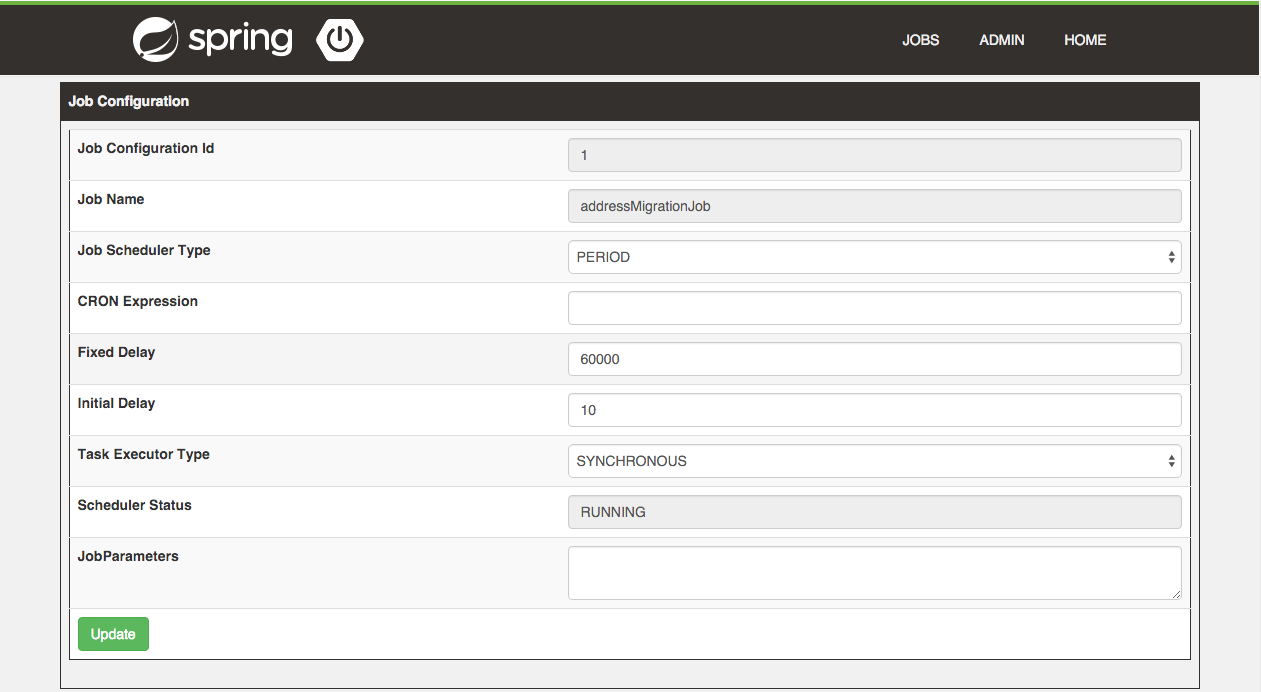
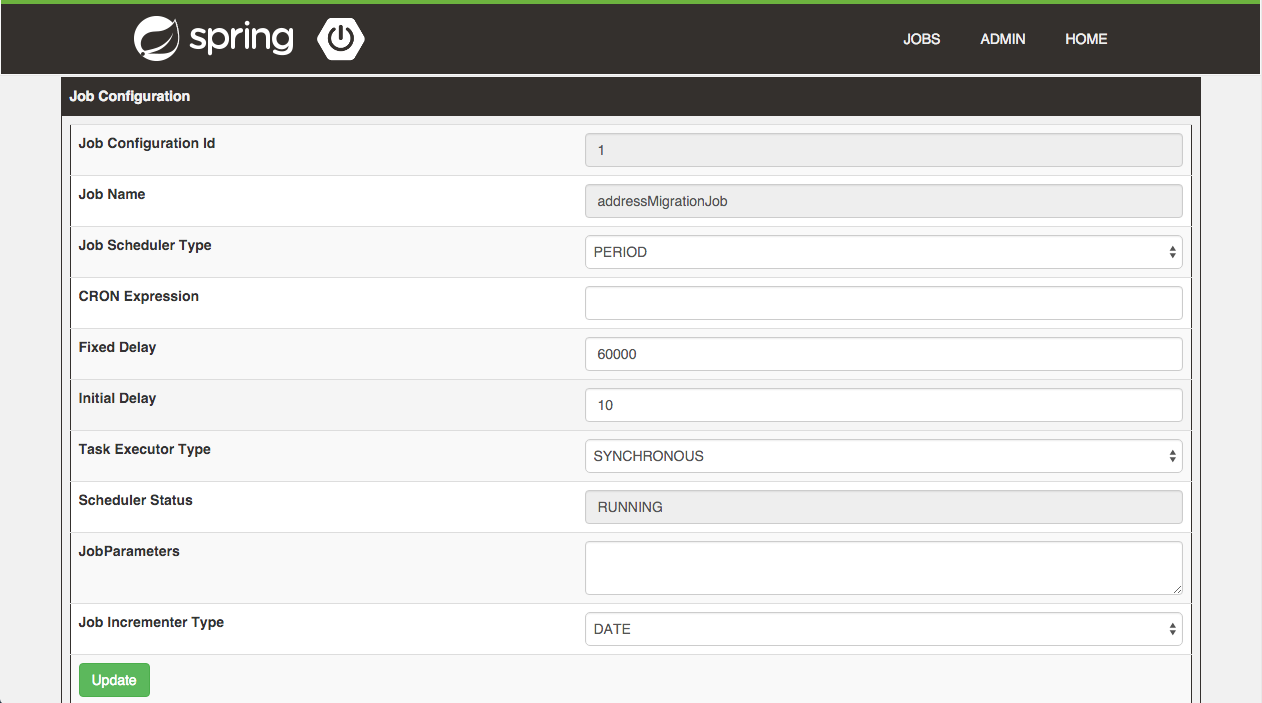
added restart / stop feature for job executions

diff --git a/spring-batch-lightmin-ui/src/main/resources/templates/jobExecutions.html b/spring-batch-lightmin-ui/src/main/resources/templates/jobExecutions.html
@@ -10,7 +10,7 @@
             <table class="table table-hover boxed">
                 <thead>
                 <tr>
-                    <th colspan="9">
+                    <th colspan="10">
                         <a href="#"
                            th:href="@{job(jobname=${jobName})}"
                            th:text="${jobName}"> </a>
@@ -28,12 +28,13 @@
                     <th>End Time</th>
                     <th>Status</th>
                     <th>Exit Code</th>
+                    <th>Action</th>
                 </tr>
                 <tr th:each="jobExecution : ${jobExecutions}">
                     <td th:text="${jobExecution.jobInstanceId}"/>
                     <td><a href="#"
                            th:href="@{execution(jobExecutionId=${jobExecution.jobExecution.id})}"
-                           th:text="${jobExecution.jobExecution.jobId}"></a></td>
+                           th:text="${jobExecution.jobExecution.id}"></a></td>
                     <td th:text="${jobExecution.jobName}"/>
                     <td th:text="${jobExecution.jobExecution.createTime}"/>
                     <td th:text="${jobExecution.jobExecution.startTime}"/>
@@ -41,6 +42,28 @@
                     <td th:text="${jobExecution.jobExecution.endTime}"/>
                     <td th:text="${jobExecution.jobExecution.status}"/>
                     <td th:text="${jobExecution.jobExecution.exitStatus.exitCode}"/>
+                    <td>
+                        <div class="col-xs-11 clearfix">
+                            <div class="pull-right">
+                                <form method="post" class="form-inline pull-right"
+                                      th:if="${jobExecution.jobExecution.status.name() == 'COMPLETED'
+                                                      || jobExecution.jobExecution.status.name() == 'FAILED' || jobExecution.jobExecution.status.name() == 'ABANDONED'}"
+                                      th:action="@{executionRestart(jobExecutionId=${jobExecution.jobExecution.id},jobInstanceId=${jobExecution.jobInstanceId})}">
+                                    <div class="form-group">
+                                        <button type="submit" class="btn btn-success btn-sm">Restart</button>
+                                    </div>
+                                </form>
+                                <form method="post" class="form-inline pull-right"
+                                      th:if="${jobExecution.jobExecution.status.name() == 'STARTING'
+                                                      || jobExecution.jobExecution.status.name() == 'STARTED' || jobExecution.jobExecution.status.name() == 'UNKNOWN'}"
+                                      th:action="@{executionStop(jobExecutionId=${jobExecution.jobExecution.id},jobInstanceId=${jobExecution.jobInstanceId})}">
+                                    <div class="form-group">
+                                        <button type="submit" class="btn btn-danger btn-sm">Stop</button>
+                                    </div>
+                                </form>
+                            </div>
+                        </div>
+                    </td>
                 </tr>
                 </tbody>
             </table>

diff --git a/spring-batch-lightmin-ui/src/main/resources/templates/jobConfigurationAdd.html b/spring-batch-lightmin-ui/src/main/resources/templates/jobConfigurationAdd.html
@@ -138,6 +138,22 @@
                                     </tr>
                                     <tr>
                                         <td>
+                                            <label for="jobIncrementerType">
+                                                Job Incrementer Type
+                                            </label>
+                                        </td>
+                                        <td>
+                                            <select class="form-control" id="jobIncrementerType"
+                                                    th:field="*{jobIncrementer}" th:value="*{jobIncrementer}">
+                                                <option th:each="type : ${jobIncrementerTypes}"
+                                                        th:value="${type}" th:text="${type.name()}">Job
+                                                    Incrementer Type
+                                                </option>
+                                            </select>
+                                        </td>
+                                    </tr>
+                                    <tr>
+                                        <td>
                                             <button type="submit" class="btn btn-success btn-small">Add
                                             </button>
                                         </td>

diff --git a/spring-batch-lightmin-ui/src/main/resources/templates/jobConfigurationEdit.html b/spring-batch-lightmin-ui/src/main/resources/templates/jobConfigurationEdit.html
@@ -143,6 +143,22 @@
                 </tr>
                 <tr>
                   <td>
+                    <label for="jobIncrementerType">
+                      Job Incrementer Type
+                    </label>
+                  </td>
+                  <td>
+                    <select class="form-control" id="jobIncrementerType"
+                            th:field="*{jobIncrementer}" th:value="*{jobIncrementer}">
+                      <option th:each="type : ${jobIncrementerTypes}"
+                              th:value="${type}" th:text="${type.name()}">Job
+                        Incrementer Type
+                      </option>
+                    </select>
+                  </td>
+                </tr>
+                <tr>
+                  <td>
                     <button type="submit" class="btn btn-success btn-small">Update
                     </button>
                   </td>

diff --git a/spring-batch-lightmin-ui/src/main/java/org/tuxdevelop/spring/batch/lightmin/controller/JobConfigurationController.java b/spring-batch-lightmin-ui/src/main/java/org/tuxdevelop/spring/batch/lightmin/controller/JobConfigurationController.java
@@ -48,6 +48,7 @@ public class JobConfigurationController extends CommonController {
         model.addAttribute("jobSchedulerTypes", JobSchedulerType.values());
         model.addAttribute("taskExecutorTypes", TaskExecutorType.values());
         model.addAttribute("schedulerStatusValues", getSelectableSchedulerStatus());
+        model.addAttribute("jobIncrementerTypes", JobIncrementer.values());
     }
 
     @RequestMapping(value = "/jobConfigurationEdit", method = RequestMethod.GET)
@@ -66,9 +67,11 @@ public class JobConfigurationController extends CommonController {
         jobConfigurationAddModel.setInitialDelay(jobConfiguration.getJobSchedulerConfiguration().getInitialDelay());
         jobConfigurationAddModel.setJobConfigurationId(jobConfigurationId);
         jobConfigurationAddModel.setSchedulerStatus(jobConfiguration.getJobSchedulerConfiguration().getSchedulerStatus());
+        jobConfigurationAddModel.setJobIncrementer(jobConfiguration.getJobIncrementer());
         model.addAttribute("jobConfigurationAddModel", jobConfigurationAddModel);
         model.addAttribute("jobSchedulerTypes", JobSchedulerType.values());
         model.addAttribute("taskExecutorTypes", TaskExecutorType.values());
+        model.addAttribute("jobIncrementerTypes", JobIncrementer.values());
         return "jobConfigurationEdit";
     }
 
@@ -94,7 +97,7 @@ public class JobConfigurationController extends CommonController {
 
     @RequestMapping(value = "/jobConfigurations", method = RequestMethod.POST)
     public String deleteJobConfiguration(@RequestParam("jobConfigurationId") final long jobConfigurationId,
-                                       final Model model) {
+                                         final Model model) {
         adminService.deleteJobConfiguration(jobConfigurationId);
         final Collection<JobConfigurationModel> jobConfigurationModels = getJobConfigurationModels();
         model.addAttribute("jobConfigurationModels", jobConfigurationModels);
@@ -149,7 +152,7 @@ public class JobConfigurationController extends CommonController {
         jobConfiguration.setJobName(jobConfigurationAddModel.getJobName());
         jobConfiguration.setJobSchedulerConfiguration(jobSchedulerConfiguration);
         jobConfiguration.setJobParameters(parameters);
-        jobConfiguration.setJobIncrementer(JobIncrementer.DATE);
+        jobConfiguration.setJobIncrementer(jobConfigurationAddModel.getJobIncrementer());
         jobConfiguration.setJobConfigurationId(jobConfigurationAddModel.getJobConfigurationId());
         return jobConfiguration;
     }

diff --git a/spring-batch-lightmin-core/src/test/java/org/tuxdevelop/spring/batch/lightmin/util/BeanRegistrarIT.java b/spring-batch-lightmin-core/src/test/java/org/tuxdevelop/spring/batch/lightmin/util/BeanRegistrarIT.java
@@ -1,7 +1,6 @@
 package org.tuxdevelop.spring.batch.lightmin.util;
 
 import lombok.extern.slf4j.Slf4j;
-import org.junit.Ignore;
 import org.junit.Test;
 import org.junit.runner.RunWith;
 import org.springframework.batch.core.Job;
@@ -9,7 +8,7 @@ import org.springframework.batch.core.JobParametersBuilder;
 import org.springframework.batch.core.launch.JobLauncher;
 import org.springframework.beans.factory.NoSuchBeanDefinitionException;
 import org.springframework.beans.factory.annotation.Autowired;
-import org.springframework.context.ApplicationContext;
+import org.springframework.context.ConfigurableApplicationContext;
 import org.springframework.test.annotation.DirtiesContext;
 import org.springframework.test.context.ContextConfiguration;
 import org.springframework.test.context.junit4.SpringJUnit4ClassRunner;
@@ -33,7 +32,7 @@ public class BeanRegistrarIT {
     private BeanRegistrar beanRegistrar;
 
     @Autowired
-    private ApplicationContext applicationContext;
+    private ConfigurableApplicationContext applicationContext;
 
     @Autowired
     private Job simpleJob;
@@ -58,16 +57,18 @@ public class BeanRegistrarIT {
         assertThat(registeredBean).isEqualTo("Test");
     }
 
-    //FIXME: Bean found, but is unregistered
-    @Ignore
     @Test(expected = NoSuchBeanDefinitionException.class)
     public void unregisterBeanStringIT() {
-        beanRegistrar.registerBean(String.class, "sampleString", null, null, null, null, null);
-        final String registeredBean = (String) applicationContext.getBean("sampleString");
+        final Set<Object> constructorValues = new HashSet<Object>();
+        constructorValues.add("sampleStringSecond");
+        beanRegistrar.registerBean(String.class, "sampleStringSecond", constructorValues, null, null, null, null);
+        final String registeredBean = (String) applicationContext.getBean("sampleStringSecond");
         assertThat(registeredBean).isNotNull();
-        beanRegistrar.unregisterBean("sampleString");
-        final String gotBean = (String) applicationContext.getBean("sampleString");
+        assertThat(registeredBean).isEqualTo("sampleStringSecond");
+        beanRegistrar.unregisterBean("sampleStringSecond");
+        final String gotBean = applicationContext.getBean("sampleStringSecond", String.class);
         log.info("got: " + gotBean);
+
     }
 
     @Test(expected = NoSuchBeanDefinitionException.class)

diff --git a/spring-batch-lightmin-core/src/main/java/org/tuxdevelop/spring/batch/lightmin/service/DefaultAdminService.java b/spring-batch-lightmin-core/src/main/java/org/tuxdevelop/spring/batch/lightmin/service/DefaultAdminService.java
@@ -43,7 +43,7 @@ public class DefaultAdminService implements AdminService {
         try {
             jobConfigurationRepository.update(addedJobConfiguration);
             if (SchedulerStatus.RUNNING.equals(addedJobConfiguration.getJobSchedulerConfiguration().getSchedulerStatus())) {
-                schedulerService.schedule(beanName);
+                schedulerService.schedule(beanName, Boolean.TRUE);
             } else {
                 log.info("Scheduler not started, no scheduling triggered!");
             }
@@ -60,7 +60,7 @@ public class DefaultAdminService implements AdminService {
             jobConfigurationRepository.update(jobConfiguration);
             schedulerService.refreshSchedulerForJob(jobConfiguration);
             if (SchedulerStatus.RUNNING.equals(jobConfiguration.getJobSchedulerConfiguration().getSchedulerStatus())) {
-                schedulerService.schedule(jobConfiguration.getJobSchedulerConfiguration().getBeanName());
+                schedulerService.schedule(jobConfiguration.getJobSchedulerConfiguration().getBeanName(), Boolean.TRUE);
             } else {
                 log.info("Scheduler not started, no scheduling triggered!");
             }
@@ -154,7 +154,7 @@ public class DefaultAdminService implements AdminService {
         try {
             final JobConfiguration jobConfiguration = jobConfigurationRepository.getJobConfiguration(jobConfigurationId);
             final String beanName = jobConfiguration.getJobSchedulerConfiguration().getBeanName();
-            schedulerService.schedule(beanName);
+            schedulerService.schedule(beanName, Boolean.FALSE);
             jobConfiguration.getJobSchedulerConfiguration().setSchedulerStatus(SchedulerStatus.RUNNING);
             jobConfigurationRepository.update(jobConfiguration);
         } catch (NoSuchJobConfigurationException e) {

diff --git a/spring-batch-lightmin-samples/address-migrator-war/src/main/java/org/tuxdevelop/spring/batch/lightmin/address_migrator/configuration/AddressPrinterJobConfiguration.java b/spring-batch-lightmin-samples/address-migrator-war/src/main/java/org/tuxdevelop/spring/batch/lightmin/address_migrator/configuration/AddressPrinterJobConfiguration.java
@@ -5,6 +5,7 @@ import org.springframework.batch.core.Job;
 import org.springframework.batch.core.Step;
 import org.springframework.batch.core.configuration.annotation.JobBuilderFactory;
 import org.springframework.batch.core.configuration.annotation.StepBuilderFactory;
+import org.springframework.batch.core.launch.support.RunIdIncrementer;
 import org.springframework.batch.item.ItemProcessor;
 import org.springframework.batch.item.ItemWriter;
 import org.springframework.batch.item.database.ItemSqlParameterSourceProvider;
@@ -50,6 +51,7 @@ public class AddressPrinterJobConfiguration {
     public Job addressPrinterJob() throws Exception {
         return jobBuilderFactory
                 .get("addressPrinterJob")
+                .incrementer(new RunIdIncrementer())
                 .start(addressPrinterStep())
                 .next(addressBatchTaskDeletionJob())
                 .build();
@@ -63,6 +65,7 @@ public class AddressPrinterJobConfiguration {
                 .reader(addressPrinterReader())
                 .processor(addressPrinterProcessor())
                 .writer(addressPrinterWriter())
+                .allowStartIfComplete(Boolean.TRUE)
                 .build();
     }
 
@@ -72,6 +75,7 @@ public class AddressPrinterJobConfiguration {
                 .<Long, Long>chunk(1)
                 .reader(addressBatchTaskDeletionReader())
                 .writer(addressBatchTaskDeletionWriter())
+                .allowStartIfComplete(Boolean.TRUE)
                 .build();
     }
 

diff --git a/spring-batch-lightmin-samples/address-migrator/src/main/java/org/tuxdevelop/spring/batch/lightmin/address_migrator/configuration/AddressPrinterJobConfiguration.java b/spring-batch-lightmin-samples/address-migrator/src/main/java/org/tuxdevelop/spring/batch/lightmin/address_migrator/configuration/AddressPrinterJobConfiguration.java
@@ -5,6 +5,7 @@ import org.springframework.batch.core.Job;
 import org.springframework.batch.core.Step;
 import org.springframework.batch.core.configuration.annotation.JobBuilderFactory;
 import org.springframework.batch.core.configuration.annotation.StepBuilderFactory;
+import org.springframework.batch.core.launch.support.RunIdIncrementer;
 import org.springframework.batch.item.ItemProcessor;
 import org.springframework.batch.item.ItemWriter;
 import org.springframework.batch.item.database.ItemSqlParameterSourceProvider;
@@ -50,6 +51,7 @@ public class AddressPrinterJobConfiguration {
     public Job addressPrinterJob() throws Exception {
         return jobBuilderFactory
                 .get("addressPrinterJob")
+                .incrementer(new RunIdIncrementer())
                 .start(addressPrinterStep())
                 .next(addressBatchTaskDeletionJob())
                 .build();
@@ -63,6 +65,7 @@ public class AddressPrinterJobConfiguration {
                 .reader(addressPrinterReader())
                 .processor(addressPrinterProcessor())
                 .writer(addressPrinterWriter())
+                .allowStartIfComplete(Boolean.TRUE)
                 .build();
     }
 
@@ -72,6 +75,7 @@ public class AddressPrinterJobConfiguration {
                 .<Long, Long>chunk(1)
                 .reader(addressBatchTaskDeletionReader())
                 .writer(addressBatchTaskDeletionWriter())
+                .allowStartIfComplete(Boolean.TRUE)
                 .build();
     }
 

diff --git a/spring-batch-lightmin-core/src/main/java/org/tuxdevelop/spring/batch/lightmin/service/DefaultJobService.java b/spring-batch-lightmin-core/src/main/java/org/tuxdevelop/spring/batch/lightmin/service/DefaultJobService.java
@@ -9,6 +9,7 @@ import org.springframework.batch.core.launch.JobOperator;
 import org.springframework.batch.core.launch.NoSuchJobException;
 import org.springframework.batch.core.repository.dao.JobExecutionDao;
 import org.springframework.batch.core.repository.dao.JobInstanceDao;
+import org.tuxdevelop.spring.batch.lightmin.exception.SpringBatchLightminApplicationException;
 
 import java.util.*;
 
@@ -89,6 +90,24 @@ public class DefaultJobService implements JobService {
     public void attachJobInstance(final JobExecution jobExecution) {
         final JobInstance jobInstance = jobInstanceDao.getJobInstance(jobExecution);
         jobExecution.setJobInstance(jobInstance);
+    }
+
+    @Override
+    public void restartJobExecution(final Long jobExecutionId) {
+        try {
+            jobOperator.restart(jobExecutionId);
+        } catch (final Exception e) {
+            throw new SpringBatchLightminApplicationException(e, e.getMessage());
+        }
+    }
+
+    @Override
+    public void stopJobExecution(final Long jobExecutionId) {
+        try {
+            jobOperator.stop(jobExecutionId);
+        } catch (final Exception e) {
+            throw new SpringBatchLightminApplicationException(e, e.getMessage());
+        }
     }
 
     @Override

diff --git a/spring-batch-lightmin-ui/src/main/java/org/tuxdevelop/spring/batch/lightmin/controller/JobController.java b/spring-batch-lightmin-ui/src/main/java/org/tuxdevelop/spring/batch/lightmin/controller/JobController.java
@@ -104,6 +104,20 @@ public class JobController extends CommonController {
         return "jobExecution";
     }
 
+    @RequestMapping(value = "/executionRestart", method = RequestMethod.POST)
+    public String restartJobExecution(@RequestParam(value = "jobExecutionId") final Long jobExecutionId,
+                                      @RequestParam(value = "jobInstanceId") final Long jobInstanceId) {
+        jobService.restartJobExecution(jobExecutionId);
+        return "redirect:executions?jobInstanceId=" + jobInstanceId;
+    }
+
+    @RequestMapping(value = "/executionStop", method = RequestMethod.POST)
+    public String stopJobExecution(@RequestParam(value = "jobExecutionId") final Long jobExecutionId,
+                                   @RequestParam(value = "jobInstanceId") final Long jobInstanceId) {
+        jobService.stopJobExecution(jobExecutionId);
+        return "redirect:executions?jobInstanceId=" + jobInstanceId;
+    }
+
     void enrichJobExecution(final JobExecutionModel jobExecutionModel,
                             Collection<StepExecution> stepExecutions) {
         final Collection<StepExecutionModel> stepExecutionModels = new LinkedList<StepExecutionModel>();

diff --git a/spring-batch-lightmin-core/src/main/java/org/tuxdevelop/spring/batch/lightmin/admin/domain/JobIncrementer.java b/spring-batch-lightmin-core/src/main/java/org/tuxdevelop/spring/batch/lightmin/admin/domain/JobIncrementer.java
@@ -9,12 +9,14 @@ import org.tuxdevelop.spring.batch.lightmin.exception.SpringBatchLightminApplica
  */
 public enum JobIncrementer {
 
-    DATE("DATE_INCREMENTER");
+    DATE("DATE_INCREMENTER"),
+    NONE("NONE");
+
 
     @Getter
     private String incrementerIdentifier;
 
-    private JobIncrementer(final String incrementerIdentifier) {
+    JobIncrementer(final String incrementerIdentifier) {
         this.incrementerIdentifier = incrementerIdentifier;
     }
 
@@ -22,6 +24,8 @@ public enum JobIncrementer {
         final JobIncrementer jobIncrementer;
         if (JobIncrementer.DATE.getIncrementerIdentifier().equals(incrementerIdentifier)) {
             jobIncrementer = DATE;
+        } else if (JobIncrementer.NONE.getIncrementerIdentifier().equals(incrementerIdentifier)) {
+            jobIncrementer = NONE;
         } else {
             throw new SpringBatchLightminApplicationException(
                     "Unknown JobIncrementer for identifier: " + incrementerIdentifier);

diff --git a/spring-batch-lightmin-ui/src/main/java/org/tuxdevelop/spring/batch/lightmin/configuration/SpringBatchLightminWebConfiguration.java b/spring-batch-lightmin-ui/src/main/java/org/tuxdevelop/spring/batch/lightmin/configuration/SpringBatchLightminWebConfiguration.java
@@ -27,6 +27,8 @@ public class SpringBatchLightminWebConfiguration {
                 viewControllerRegistry.addViewController("/job").setViewName("job");
                 viewControllerRegistry.addViewController("/executions").setViewName("jobExecutions");
                 viewControllerRegistry.addViewController("/execution").setViewName("jobExecution");
+                viewControllerRegistry.addViewController("/executionRestart").setViewName("jobExecutions");
+                viewControllerRegistry.addViewController("/executionStop").setViewName("jobExecutions");
                 viewControllerRegistry.addViewController("/jobConfigurations").setViewName("jobConfigurations");
                 viewControllerRegistry.addViewController("/jobConfigurationAdd").setViewName("jobConfigurationAdd");
                 viewControllerRegistry.addViewController("/jobConfigurationEdit").setViewName("jobConfigurationEdit");
